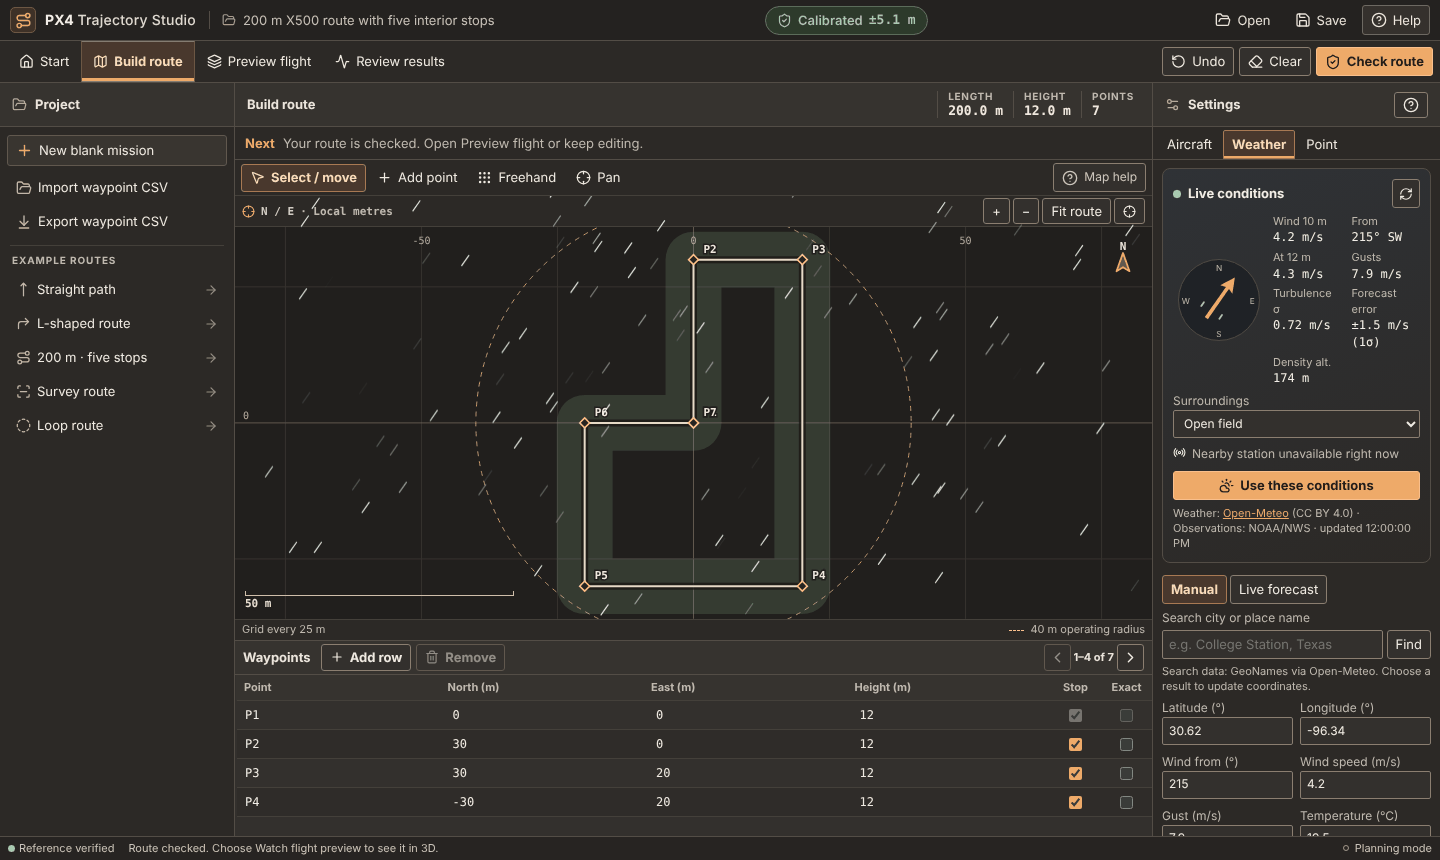
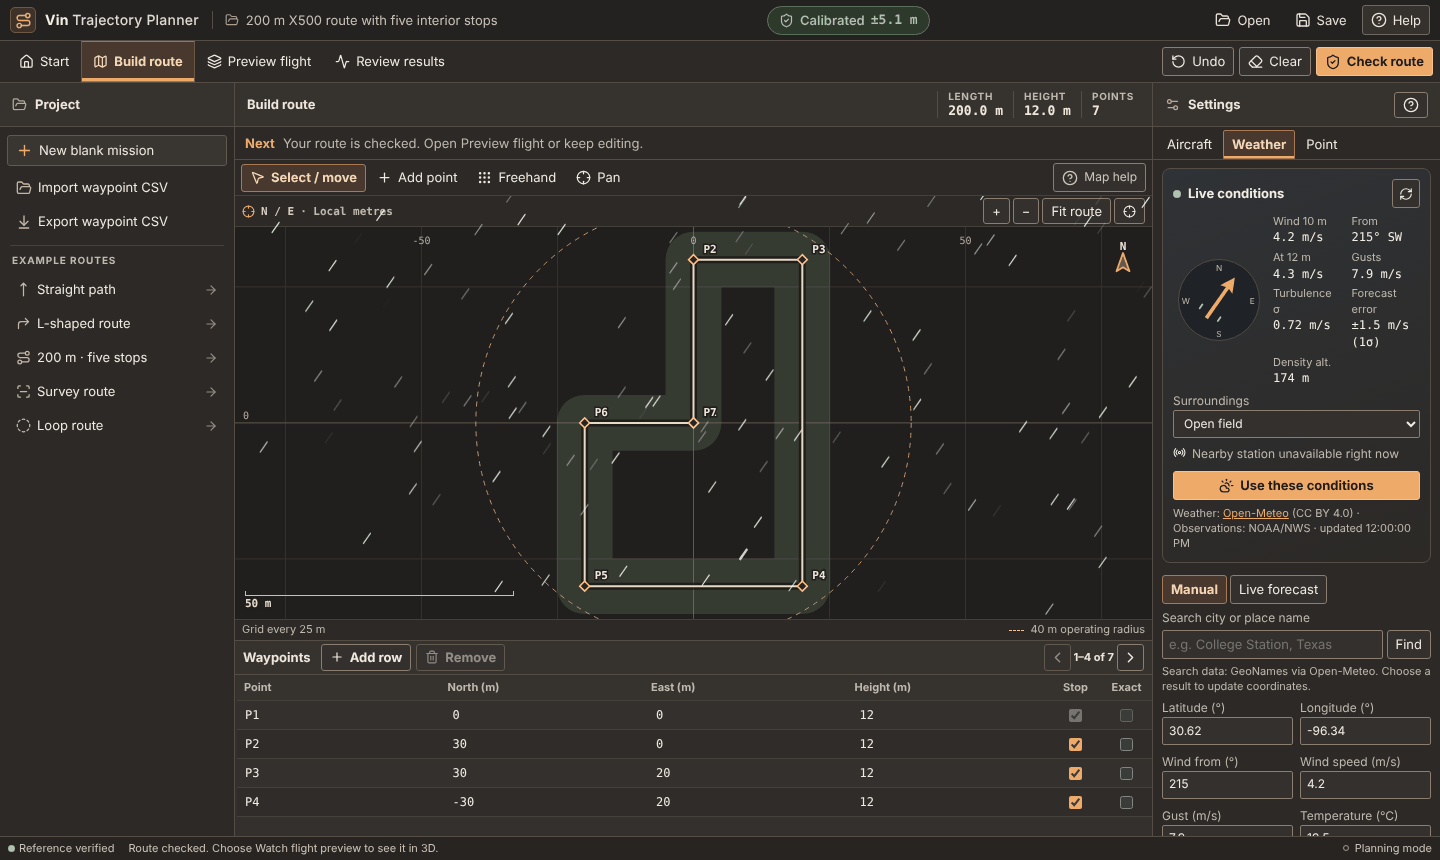
Rename to Vin Trajectory Planner, by Vinayak (Vin) Nair
App header, page title, launcher, README, diagrams and screenshots now carry the new name.

Claude-Session: https://claude.ai/code/session_01FPdwT7SbjACmTB3839hAPh

Changed region(s): [[0.0312, 0.0, 0.3438, 0.0302], [0.5312, 0.0, 0.6562, 0.0302]]

diff --git a/studio-v2/src/App.tsx b/studio-v2/src/App.tsx
@@ -589,7 +589,7 @@ export default function App(){
   const fewPoints=project.points.length<2;
   return <div className="app-shell" data-practice-step={guideInPlace?lesson:undefined}>
     <header className="topbar">
-      <div className="brand"><span className="brand-mark"><Route size={17} aria-hidden="true"/></span><strong>PX4 <span>Trajectory Studio</span></strong></div>
+      <div className="brand"><span className="brand-mark"><Route size={17} aria-hidden="true"/></span><strong>Vin <span>Trajectory Planner</span></strong></div>
       <span className="project-title" title={project.title}><FolderOpen size={14} aria-hidden="true"/><span>{project.title}{dirty?' *':''}</span></span>
       {!isStart&&<ConfidenceBadge corridor={accuracy} onEvidence={()=>{setResultPanel('evidence');openStep('analysis');}}/>}
       <div className="top-actions">
@@ -689,7 +689,7 @@ export default function App(){
               <h2>How it works</h2>
               <ol>
                 <li><strong>Build your route</strong><span>Click the map to add points, or use the practice route.</span></li>
-                <li><strong>Check the route</strong><span>Studio works out how the drone could follow your path and flags changes.</span></li>
+                <li><strong>Check the route</strong><span>The planner works out how the drone could follow your path and flags changes.</span></li>
                 <li><strong>Watch the preview</strong><span>See the planned takeoff, flight, and landing in 3D.</span></li>
               </ol>
             </div>
@@ -804,7 +804,7 @@ export default function App(){
           </div>}
         </div>}
         <div className="analysis-panel" hidden={active!=='analysis'||resultPanel!=='simulation'} aria-label="Simulator results">
-          {sitl?<ConnectedRehearsal plan={result} onJob={setJob}/>:<p className="empty-panel">Connect Studio to a local PX4 / Gazebo installation to run a rehearsal.</p>}
+          {sitl?<ConnectedRehearsal plan={result} onJob={setJob}/>:<p className="empty-panel">Connect the planner to a local PX4 / Gazebo installation to run a rehearsal.</p>}
         </div>
         {active==='analysis'&&<div className="analysis-panel charts-panel" hidden={resultPanel!=='charts'} aria-label="Reference charts">
           <div className="dock-bar"><label htmlFor="chart-field">Chart</label>

diff --git a/web/workspace.js b/web/workspace.js
@@ -8,7 +8,7 @@
  const workspace=document.querySelector('.workspace'),review=byId('planReview');
  const simulation=byId('rehearse').closest('section'),steps=workspace.querySelector('.steps');
  const header=document.querySelector('header');header.className='app-header';header.replaceChildren();
- const brand=node('a','brand');brand.href='/';brand.setAttribute('aria-label','Trajectory Studio home');brand.innerHTML=icon+'<span>Trajectory<span class="brand-secondary"> Studio</span></span>';
+ const brand=node('a','brand');brand.href='/';brand.setAttribute('aria-label','Vin Trajectory Planner home');brand.innerHTML=icon+'<span>Vin Trajectory<span class="brand-secondary"> Planner</span></span>';
  const headerRight=node('div','header-actions');
  const scope=node('span','scope-chip','Browser workspace');
  const settingsButton=node('button','header-button','Settings');settingsButton.id='openSettings';
@@ -74,7 +74,7 @@
  const fidelityHint=node('p','muted');fidelityHint.textContent='Allowed rounding is the hard limit. We aim for one quarter of it, slow down for tighter turns, and show when that closer-fit goal cannot be reached. Mark a corner as a stop when you need it exact.';byId('deviation').after(fidelityHint);
  const closureHint=node('p','muted');closureHint.textContent='Choosing Loop connects END back to START. Open routes stop at END before returning home.';byId('closed').after(closureHint);
 
- document.querySelector('footer').textContent='Trajectory Studio · Planning checks a mathematical model. Gazebo has not run.';
+ document.querySelector('footer').textContent='Vin Trajectory Planner · Planning checks a mathematical model. Gazebo has not run.';
  function syncSummary(){heightButton.innerHTML='<span>Height</span><strong>'+byId('altitude').value+' <small>m</small></strong>';speedButton.innerHTML='<span>Cruising speed</span><strong>'+byId('targetSpeed').value+' <small>m/s</small></strong>';}
  byId('altitude').addEventListener('input',syncSummary);byId('targetSpeed').addEventListener('input',syncSummary);syncSummary();
  let runState='draft',startedAt=null,elapsedTimer=null;

diff --git a/studio-v2/src/GnssWhatIf.tsx b/studio-v2/src/GnssWhatIf.tsx
@@ -17,7 +17,7 @@ export default function GnssWhatIf({ windAtAlt, altitude }: { windAtAlt: number;
       <span className="drift-bar" style={{ ['--drift' as string]: Math.min(1, r.driftRealM / 60) }} aria-hidden="true"/>
     </div>
     <ol className="gnss-steps">{r.steps.map(s => <li key={s}>{s}</li>)}</ol>
-    <small className="muted">Wind {windAtAlt.toFixed(1)} m/s at {Math.round(altitude)} m. Checked against three Studio SITL outage cases;
+    <small className="muted">Wind {windAtAlt.toFixed(1)} m/s at {Math.round(altitude)} m. Checked against three SITL outage cases;
       the upper bound scales the wind response by real-fleet tilt drag (partly wind) and has not been flight-tested.</small>
   </section>;
 }

diff --git a/studio-v2/src/WorkspaceHelp.tsx b/studio-v2/src/WorkspaceHelp.tsx
@@ -48,7 +48,7 @@ export default function WorkspaceHelp({dialog, topic, onTopic, onPractice}: {
   return <dialog ref={dialog} className="help-dialog" aria-labelledby="help-title">
     <div className="help-header">
       <div className="help-mark"><CircleHelp size={23} aria-hidden="true"/></div>
-      <h2 id="help-title">Studio help</h2>
+      <h2 id="help-title">Planner help</h2>
       <form method="dialog"><button autoFocus className="ghost help-close" aria-label="Close help"><X size={19}/></button></form>
     </div>
     <nav className="help-topics" aria-label="Help topics">

diff --git a/studio-v2/index.html b/studio-v2/index.html
@@ -1,7 +1,7 @@
 <!doctype html>
 <html lang="en">
 <head><meta charset="UTF-8"/><meta name="viewport" content="width=device-width, initial-scale=1.0"/>
-<meta name="theme-color" content="#242220"/><title>PX4 Studio · Engineering Workspace</title>
+<meta name="theme-color" content="#242220"/><title>Vin Trajectory Planner</title>
 <meta name="description" content="PX4 trajectory design and verified reference analysis"/>
 <script src="/browser-api.js"></script></head>
 <body><div id="root"></div><script type="module" src="/src/main.tsx"></script></body>

diff --git a/studio-v2/src/PracticeGuide.tsx b/studio-v2/src/PracticeGuide.tsx
@@ -15,7 +15,7 @@ export const practiceLessons = [
   },
   {
     id: 'check', view: 'geometry', title: 'Check the route',
-    text: 'Studio calculates how the drone could fly the path and checks it against the aircraft limits. Your drawing stays available to edit.',
+    text: 'The planner calculates how the drone could fly the path and checks it against the aircraft limits. Your drawing stays available to edit.',
   },
   {
     id: 'results', view: 'analysis', title: 'Read the route checks',

diff --git a/mission_planner/research_studio.py b/mission_planner/research_studio.py
@@ -169,7 +169,7 @@ def main(default_assets=None):
     if not (assets / "index.html").exists():
         parser.error("Build the frontend in studio-v2 with npm install and npm run build.")
     with research_server(args.port, args.studies_dir, assets, jobs=jobs) as server:
-        print(f"Trajectory Studio: http://127.0.0.1:{server.server_port}", flush=True)
+        print(f"Vin Trajectory Planner: http://127.0.0.1:{server.server_port}", flush=True)
         try:
             server.serve_forever()
         except KeyboardInterrupt:

diff --git a/start_studio.py b/start_studio.py
@@ -1,4 +1,4 @@
-"""One-command launcher for PX4 Trajectory Studio.
+"""One-command launcher for Vin Trajectory Planner.
 
     python start_studio.py            (Windows: py start_studio.py)
 

diff --git a/web/start_studio.py b/web/start_studio.py
@@ -1,4 +1,4 @@
-"""Launch the extracted Trajectory Studio offline workbench."""
+"""Launch the extracted Vin Trajectory Planner offline workbench."""
 from pathlib import Path
 import sys
 

diff --git a/README.md b/README.md
@@ -1,12 +1,14 @@
 <div align="center">
 
-# PX4 Trajectory Studio
+# Vin Trajectory Planner
+
+**by Vinayak (Vin) Nair** · Aerospace Engineering, Texas A&M University
 
 **Draw a drone route, check it, preview the flight, and see how accurately a real Holybro X500 V2 would fly it, before anyone goes outside.**
 
 ![PX4](https://img.shields.io/badge/PX4-v1.17-1f6feb) ![Gazebo](https://img.shields.io/badge/Gazebo-8.15-f58113) ![Python](https://img.shields.io/badge/Python-3.10%2B-3776ab) ![React](https://img.shields.io/badge/React-19-61dafb) ![Tests](https://img.shields.io/badge/tests-472%20Python%20%2B%2040%20web-2ea44f) ![Status](https://img.shields.io/badge/output-SITL__ONLY-lightgrey)
 
-![Studio demo: load a route, check it, see the accuracy corridor and wind, preview the flight in 3D](docs/img/demo.gif)
+![Demo: load a route, check it, see the accuracy corridor and wind, preview the flight in 3D](docs/img/demo.gif)
 
 </div>
 
@@ -43,7 +45,7 @@ flowchart LR
 
 Needs only **Python 3.10+** ([python.org](https://www.python.org/downloads/)).
 
-1. Download **`PX4-Trajectory-Studio.zip`** from the [latest release](https://github.com/XpiredRuby/PX4_project_improved/releases/latest) and unzip it.
+1. Download **`Vin-Trajectory-Planner.zip`** from the [latest release](https://github.com/XpiredRuby/PX4_project_improved/releases/latest) and unzip it.
 2. Open a terminal **in the unzipped folder** and run:
 
    ```bash
@@ -135,7 +137,7 @@ in both training and test). Nothing here has flown a physical aircraft; all outp
 
 | Question | Answer | Evidence |
 |---|---|---|
-| How well does Studio predict a real X500 from its setpoints? | Median error **0.13 m**, vs 0.22 m if you assume the plan is flown exactly | [X500 public logs](validation/2026-11-23-x500-public-logs/README.md) |
+| How well does the planner predict a real X500 from its setpoints? | Median error **0.13 m**, vs 0.22 m if you assume the plan is flown exactly | [X500 public logs](validation/2026-11-23-x500-public-logs/README.md) |
 | Does the 95% bound hold on drones it never saw? | Yes below 2 m/s: **±1.26 m** at 20 s, 99% held-out coverage. Faster plans are flagged | same |
 | How much does wind push it off the route? | **0.25 m** extra (p95) per m/s of gust σ, from 196 flights with a measured-wind sensor | [Measured wind](validation/2026-11-23-measured-wind/README.md) |
 | What is the biggest simulator-vs-reality gap? | **Controller tuning.** The real aircraft's PX4 tuning cuts Gazebo's p95 error from 3.1 m to 1.2 m | [X500 public logs](validation/2026-11-23-x500-public-logs/README.md) |

diff --git a/validation/README.md b/validation/README.md
@@ -7,7 +7,7 @@ Nothing here is a physical flight: real-flight folders use **public** logs; the 
 
 | Folder | Question it answers | Data |
 |---|---|---|
-| [`2026-11-23-x500-public-logs`](2026-11-23-x500-public-logs/README.md) | How well does Studio predict a real Holybro X500 V2? How far is Gazebo from reality? | PX4 Flight Review, real X500 V2 |
+| [`2026-11-23-x500-public-logs`](2026-11-23-x500-public-logs/README.md) | How well does the planner predict a real Holybro X500 V2? How far is Gazebo from reality? | PX4 Flight Review, real X500 V2 |
 | [`2026-11-23-measured-wind`](2026-11-23-measured-wind/README.md) | How much does measured wind push a quadcopter off its route? | CMU DJI M100, onboard anemometer |
 | [`2026-11-23-nanobench-fidelity`](2026-11-23-nanobench-fidelity/README.md) | Does the prediction method work against independent motion-capture truth? | NanoBench |
 

diff --git a/docs/trajectory_studio_handbook.md b/docs/trajectory_studio_handbook.md
@@ -1,6 +1,6 @@
-# PX4 Trajectory Studio handbook
+# Vin Trajectory Planner handbook
 
-Trajectory Studio turns a drawing or ordered waypoints into a checked trajectory, lets you inspect the reference, and can run that exact route in a local PX4/Gazebo X500 simulation. The current engineering baseline is the **registered X500 in the flat AFVL validation world**. Three distinct 200 m routes passed the full simulation assessment with a 5 m/s cruise request.
+Vin Trajectory Planner turns a drawing or ordered waypoints into a checked trajectory, lets you inspect the reference, and can run that exact route in a local PX4/Gazebo X500 simulation. The current engineering baseline is the **registered X500 in the flat AFVL validation world**. Three distinct 200 m routes passed the full simulation assessment with a 5 m/s cruise request.
 
 | If you want to… | Start here |
 | --- | --- |
